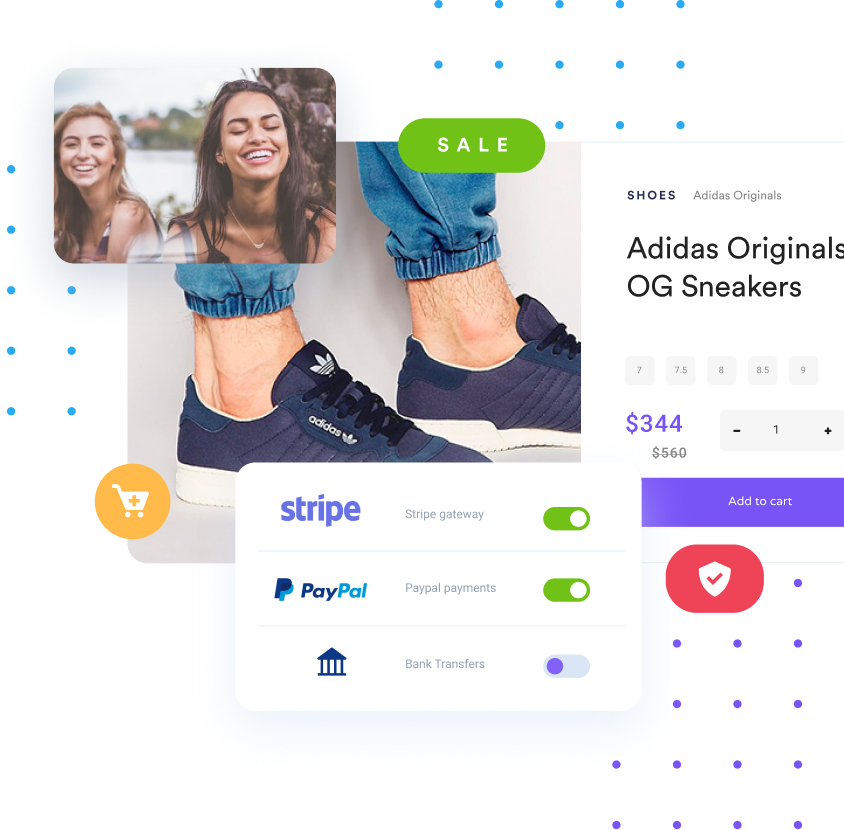
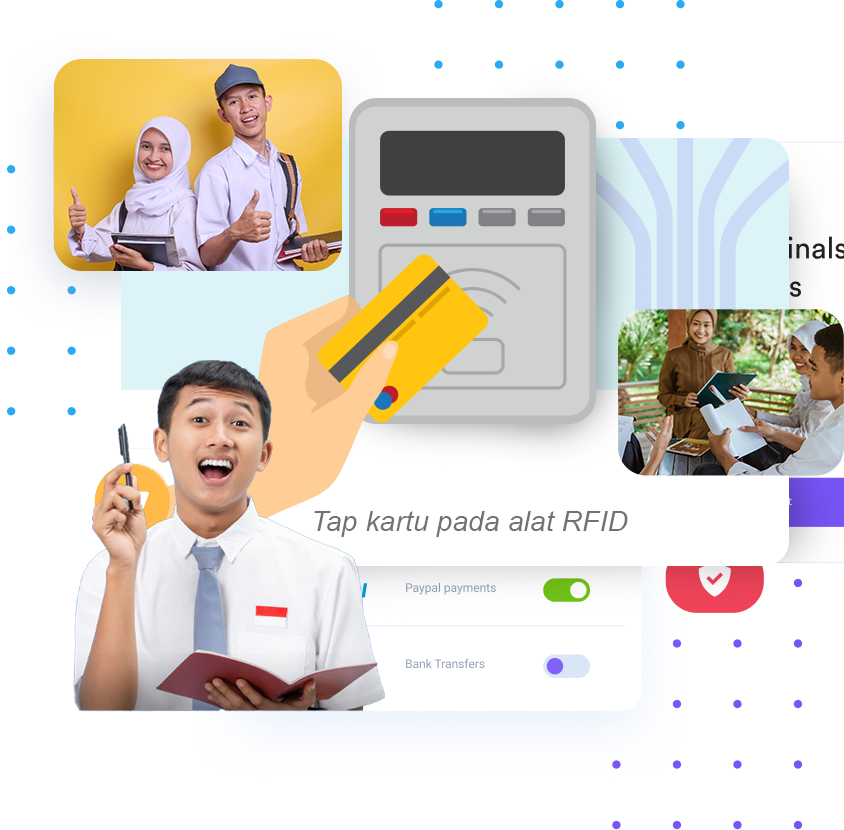
update rfid dan jadwal

diff --git a/resources/views/frontpage/index.blade.php b/resources/views/frontpage/index.blade.php
@@ -170,14 +170,13 @@
               </div>
             </div>
             @else
-            <form class="d-flex py-3 py-lg-0"><a class="btn btn-lg btn-info rounded-pill me-2" href="/login" role="button"><span class="ti ti-login"></span> Masuk Aplikasi</a>
+            <form class="d-flex py-3 py-lg-0"><a class="btn btn-sm p-2 px-2 btn-info rounded-pill me-2" href="/login" role="button"><span class="ti ti-login"></span> Masuk Aplikasi</a>
             </form>
                 @endif
           </div>
         </div>
       </nav>
       <section class="py-0 bg-light-gradient" id="section1">
-
         <div class="bg-holder" style="background-image:url({{ asset('landing/img/illustrations/hero-bg.png') }});background-position:top right;background-size:contain;">
         </div>
         <!--/.bg-holder-->
@@ -197,13 +196,13 @@
                 <h5 class=" typewrite pb-3 text-muted" data-period="2000" data-type='[ "Selamat Datang di Absensi Pintar","Hallo apa kabar..? ","Apakah anda sudah Absen Hari ini..?" ]'></h5>
                 <div class=" mb-2 mt-2">
                         <div id="info"></div>
-                        {{-- <div class="mb-3">
+                        <div class="mb-3" hidden>
                             <label class="form-label">UID :</label>
                             <select name="id_rfid" id="id_rfid" class="form-control" disabled></select>
                             <label class="form-label my-3">Nama Lengkap :</label>
                             <input type="text" class="form-control " id="nama"  disabled>
 
-                        </div> --}}
+                        </div>
 
                         <center><label><span class="ti ti-history"></span> Riwayat Absensi</label></center>
                         <div class="table-responsive bg-white scrollme">
@@ -308,31 +307,7 @@
       <section class="bg-info pt-0 pb-0">
         <div class="container">
           <div class="row justify-content-sm-between py-6">
-            <div class="col-auto mb-2">
-              <div class="d-flex">
-                <svg class="bi bi-check-circle" xmlns="http://www.w3.org/2000/svg" width="26" height="26" fill="#ffffff" viewBox="0 0 16 16">
-                  <path d="M8 15A7 7 0 1 1 8 1a7 7 0 0 1 0 14zm0 1A8 8 0 1 0 8 0a8 8 0 0 0 0 16z"></path>
-                  <path d="M10.97 4.97a.235.235 0 0 0-.02.022L7.477 9.417 5.384 7.323a.75.75 0 0 0-1.06 1.06L6.97 11.03a.75.75 0 0 0 1.079-.02l3.992-4.99a.75.75 0 0 0-1.071-1.05z"></path>
-                </svg>
-                <p class="mb-0 text-light ms-2">30 day money back guarantee</p>
-              </div>
-            </div>
-            <div class="col-auto mb-2">
-              <div class="d-flex">
-                <svg class="bi bi-gear-wide-connected" xmlns="http://www.w3.org/2000/svg" width="26" height="26" fill="#ffffff" viewBox="0 0 16 16">
-                  <path d="M7.068.727c.243-.97 1.62-.97 1.864 0l.071.286a.96.96 0 0 0 1.622.434l.205-.211c.695-.719 1.888-.03 1.613.931l-.08.284a.96.96 0 0 0 1.187 1.187l.283-.081c.96-.275 1.65.918.931 1.613l-.211.205a.96.96 0 0 0 .434 1.622l.286.071c.97.243.97 1.62 0 1.864l-.286.071a.96.96 0 0 0-.434 1.622l.211.205c.719.695.03 1.888-.931 1.613l-.284-.08a.96.96 0 0 0-1.187 1.187l.081.283c.275.96-.918 1.65-1.613.931l-.205-.211a.96.96 0 0 0-1.622.434l-.071.286c-.243.97-1.62.97-1.864 0l-.071-.286a.96.96 0 0 0-1.622-.434l-.205.211c-.695.719-1.888.03-1.613-.931l.08-.284a.96.96 0 0 0-1.186-1.187l-.284.081c-.96.275-1.65-.918-.931-1.613l.211-.205a.96.96 0 0 0-.434-1.622l-.286-.071c-.97-.243-.97-1.62 0-1.864l.286-.071a.96.96 0 0 0 .434-1.622l-.211-.205c-.719-.695-.03-1.888.931-1.613l.284.08a.96.96 0 0 0 1.187-1.186l-.081-.284c-.275-.96.918-1.65 1.613-.931l.205.211a.96.96 0 0 0 1.622-.434l.071-.286zM12.973 8.5H8.25l-2.834 3.779A4.998 4.998 0 0 0 12.973 8.5zm0-1a4.998 4.998 0 0 0-7.557-3.779l2.834 3.78h4.723zM5.048 3.967c-.03.021-.058.043-.087.065l.087-.065zm-.431.355A4.984 4.984 0 0 0 3.002 8c0 1.455.622 2.765 1.615 3.678L7.375 8 4.617 4.322zm.344 7.646l.087.065-.087-.065z"></path>
-                </svg>
-                <p class="mb-0 text-light ms-2">Support teams across the world</p>
-              </div>
-            </div>
-            <div class="col-auto">
-              <div class="d-flex">
-                <svg class="bi bi-shield-lock-fill" xmlns="http://www.w3.org/2000/svg" width="26" height="26" fill="#ffffff" viewBox="0 0 16 16">
-                  <path fill-rule="evenodd" d="M8 0c-.69 0-1.843.265-2.928.56-1.11.3-2.229.655-2.887.87a1.54 1.54 0 0 0-1.044 1.262c-.596 4.477.787 7.795 2.465 9.99a11.777 11.777 0 0 0 2.517 2.453c.386.273.744.482 1.048.625.28.132.581.24.829.24s.548-.108.829-.24a7.159 7.159 0 0 0 1.048-.625 11.775 11.775 0 0 0 2.517-2.453c1.678-2.195 3.061-5.513 2.465-9.99a1.541 1.541 0 0 0-1.044-1.263 62.467 62.467 0 0 0-2.887-.87C9.843.266 8.69 0 8 0zm0 5a1.5 1.5 0 0 1 .5 2.915l.385 1.99a.5.5 0 0 1-.491.595h-.788a.5.5 0 0 1-.49-.595l.384-1.99A1.5 1.5 0 0 1 8 5z"></path>
-                </svg>
-                <p class="mb-0 text-light ms-2">Safe &amp; Secure online payment</p>
-              </div>
-            </div>
+           
           </div>
           {{-- <div class="row flex-center">
             <div class="col-auto py-4"><a href="#"><img class="img-fluid" src="{{ asset('asset/img/logo-white.png') }}" alt="" width="200" /></a></div>
@@ -349,7 +324,6 @@
 
 
 
-
       <!-- ============================================-->
       <!-- <section> begin ============================-->
 
@@ -361,7 +335,25 @@
     <!--    End of Main Content-->
     <!-- ===============================================-->
 
-
+  <div class="modal fade" id="successModal" tabindex="-1" role="dialog" aria-labelledby="exampleModalLabel" aria-hidden="true">
+  <div class="modal-dialog" role="document">
+    <div class="modal-content">
+      {{-- <div class="modal-header">
+        <h5 class="modal-title" id="exampleModalLabel">Modal title</h5>
+        <button type="button" class="close" data-dismiss="modal" aria-label="Close">
+          <span aria-hidden="true">&times;</span>
+        </button>
+      </div> --}}
+      <div class="modal-body" id="modalBody">
+        ...
+      </div>
+      {{-- <div class="modal-footer">
+        <button type="button" class="btn btn-secondary" data-dismiss="modal">Close</button>
+        <button type="button" class="btn btn-primary">Save changes</button>
+      </div> --}}
+    </div>
+  </div>
+</div>
     <!-- ===============================================-->
     <!--    JavaScripts-->
     <!-- ===============================================-->
@@ -373,54 +365,112 @@
      <script src="{{ asset('asset/js/jquery.slimscroll.min.js') }}" type="d8aa163ebe66f835399f615d-text/javascript"></script>
 
     <script>
+       
         function menuToggle() {
           const toggleMenu = document.querySelector(".menu");
           toggleMenu.classList.toggle("active");
         }
       </script>
 
-</script>
+
    <script>
-        function refreshdata(){
-            $.ajax({
-                url:"{{ route('rfidDataGET') }}",
-                method:"GET",
-                cache:false,
-                success: function(data){
-                    $('#id_rfid').html(data);
-                }
-            });
+let modalOpen = false;  // Flag to track if the modal is open
+let lastData = null; // To track the last data to compare with new data
 
+function refreshdata() {
+    // Fetch updated RFID data
+    $.ajax({
+        url: "{{ route('rfidDataGET') }}",
+        method: "GET",
+        cache: false,
+        success: function (data) {
+            $('#id_rfid').html(data);
+        }
+    });
 
-        let id_rfid = $('#id_rfid').val();
-        var e = document.getElementById("id_rfid");
-            function onChange() {
-            var value = e.value;
-            $.ajax({
-                url:"{{ route('rfidData') }}",
-                method:"GET",
-                cache:false,
-                data : {id_rfid:id_rfid},
-                success: function(data){
-                    $('#nama').val(data);
-                    if(data){
-                    $('#info').html(
-                        '<div class="alert alert-primary" role="alert">'+
-                        'Halo '+data+',<br>Terimakasih telah mengisi absen hari ini. Semoga harimu menyenangkan dan tetap semangat belajar! '+
-                        '</div>'
-                    );
-                    }else{
-                        $('#info').html('');
+    let id_rfid = $('#id_rfid').val();
+    var e = document.getElementById("id_rfid");
+
+    function onChange() {
+        var value = e.value;
+
+        // Fetch data based on the RFID value
+        $.ajax({
+            url: "{{ route('rfidData') }}",
+            method: "GET",
+            cache: false,
+            data: { id_rfid: id_rfid },
+            success: function (data) {
+                // Update name field with the received data
+                $('#nama').val(data.nama);
+
+                // Check if the new data is different from the last data
+                if (data && JSON.stringify(data) !== JSON.stringify(lastData)) {
+                    // Only open the modal if it's not already open
+                    if (!modalOpen) {
+                        // Play text-to-voice message before showing the modal
+                        playTextToVoice(`Selamat datang, ${data.nama}. Terimakasih sudah absen hari ini.`);
+
+                        // Show the modal after the voice message is played
+                        setTimeout(() => {
+                            $('#successModal').modal('show');
+                            modalOpen = true; // Set flag to true since the modal is shown
+
+                            // Dynamically insert data into modal body
+                            $('#modalBody').html(
+                                '<div class="alert alert-success m-2 mb-2" role="alert">' +
+                                'Halo ' + data.nama + ',<br>Terimakasih telah mengisi absen hari ini. Semoga harimu menyenangkan dan tetap semangat belajar! ' +
+                                '</div>' +
+                                '<div class="d-flex justify-content-center mb-3">' +
+                                '<img src="{{ asset("asset/img/user-default.jpg") }}" class="avatar avatar-xxxl me-4 avatar-rounded" alt="foto"></div>' +
+                                '<div class="p-3">' +
+                                '<div class="mb-3"><label>ID</label><input class="form-control" value="' + data.id + '" disabled></div>' +
+                                '<div class="mb-3"><label>Nama Lengkap</label><input class="form-control" value="' + data.nama + '" disabled></div>' +
+                                '</div>'
+                            );
+
+                            // Update the lastData to the new data
+                            lastData = data;
+
+                            // Hide modal after 10 seconds
+                            setTimeout(function () {
+                                $('#successModal').modal('hide');
+                                modalOpen = false; // Reset the flag as the modal is hidden
+                            }, 10000); // 10000 milliseconds = 10 seconds
+                        }, 2000); // Wait for the voice to start before showing the modal
+                    }
+                } else {
+                    // If data is the same or no data, hide the modal if it's open
+                    if (modalOpen) {
+                        $('#successModal').modal('hide');
+                        modalOpen = false; // Reset the flag as the modal is hidden
                     }
                 }
-            });
+            }
+        });
+    }
 
-            }
-            e.onchange = onChange;
-            onChange();
-            }
-            setInterval(refreshdata,2000);
-    </script>
+    e.onchange = onChange;
+    onChange();
+}
+
+// Play Text-to-Voice Function
+function playTextToVoice(message) {
+    if ('speechSynthesis' in window) {
+        const utterance = new SpeechSynthesisUtterance(message);
+        utterance.lang = 'id-ID'; // Indonesian language
+        utterance.pitch = 1; // Normal pitch
+        utterance.rate = 1; // Normal speed
+        window.speechSynthesis.speak(utterance);
+    } else {
+        console.warn("Speech synthesis not supported in this browser.");
+    }
+}
+
+// Refresh data every 2 seconds
+setInterval(refreshdata, 3000);
+
+
     </script>
 
         <script>
@@ -463,7 +513,7 @@
                 }
             });
         }
-            setInterval(refreshdata2,2000);
+            setInterval(refreshdata2,5000);
 
         </script>
 

diff --git a/app/Http/Controllers/API/rfidController.php b/app/Http/Controllers/API/rfidController.php
@@ -126,9 +126,17 @@ class rfidController extends Controller
         $data = absentsHistory::where('uid',$request->id_rfid)->get();
         foreach($data as $item){
             if($item->gtk){
-                return $item->gtk->nama;
+                return [
+                    'nama'=>$item->gtk->nama,
+                    'id' =>$item->gtk->id_rfid,
+                    
+                ];
             }else{
-                return $item->student->nama;
+                return [
+                    'nama'=>$item->student->nama,
+                    'id' =>$item->student->id_rfid,
+                    
+                ];
             }
 
         }
